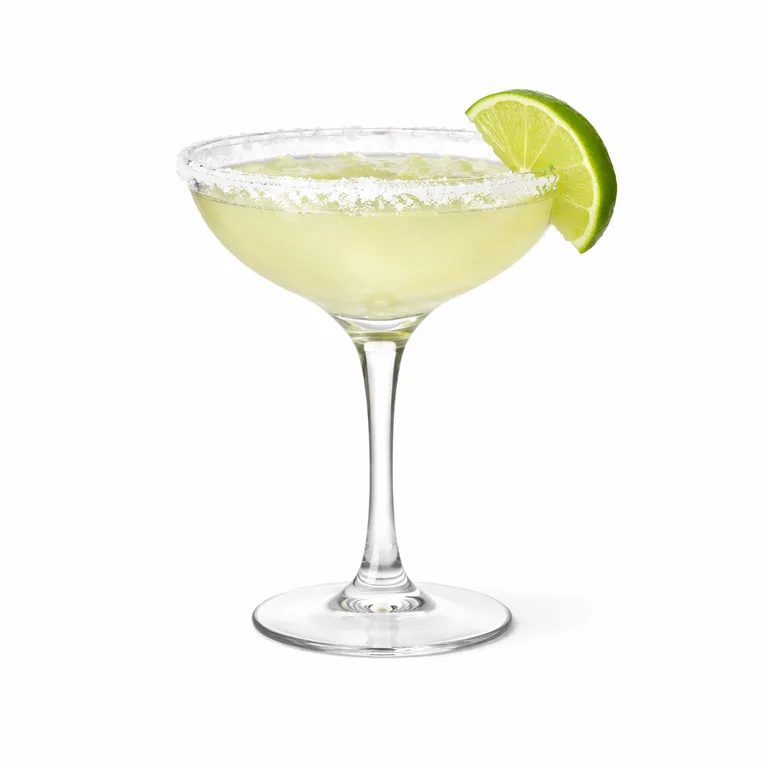
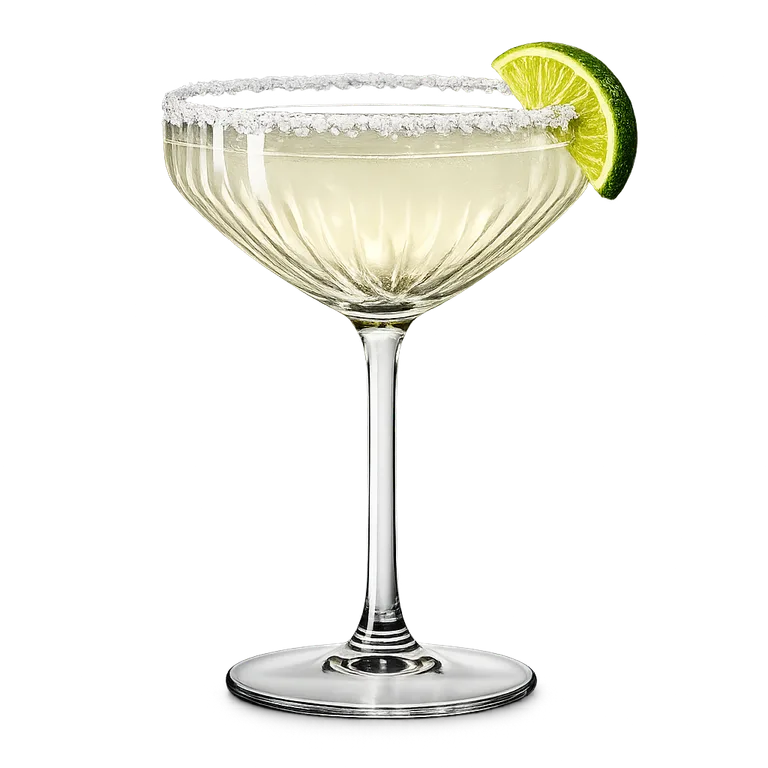
Add optimized WebP cocktail photos and remove selected tile shading

Changed region(s): [[0.1875, 0.0312, 0.8438, 0.9688]]

diff --git a/src/lib/cocktailImages.ts b/src/lib/cocktailImages.ts
@@ -8,8 +8,11 @@ function hasFileExtension(value: string) {
 // Photo overrides (used when no explicit `image_url` is provided, or when Supabase still points to an svg).
 // For now we only enable the cocktails we have fast, optimized `.webp` assets for.
 const PHOTO_OVERRIDES_BY_SLUG: Record<string, "png" | "jpg" | "webp"> = {
+  "espresso-martini": "webp",
+  "last-word": "webp",
   margarita: "webp",
   "moscow-mule": "webp",
+  "pornstar-martini": "webp",
 };
 
 export function normalizeCocktailDisplayName(name: string) {

diff --git a/src/app/request/page.tsx b/src/app/request/page.tsx
@@ -303,7 +303,7 @@ export default function RequestPage() {
                         <div
                           className={`relative h-[180px] w-full ${
                             isSelected
-                              ? "bg-gradient-to-br from-[#e9fff2] to-[#c9f2dc]"
+                              ? "bg-white/80"
                               : "bg-white/80"
                           }`}
                         >
